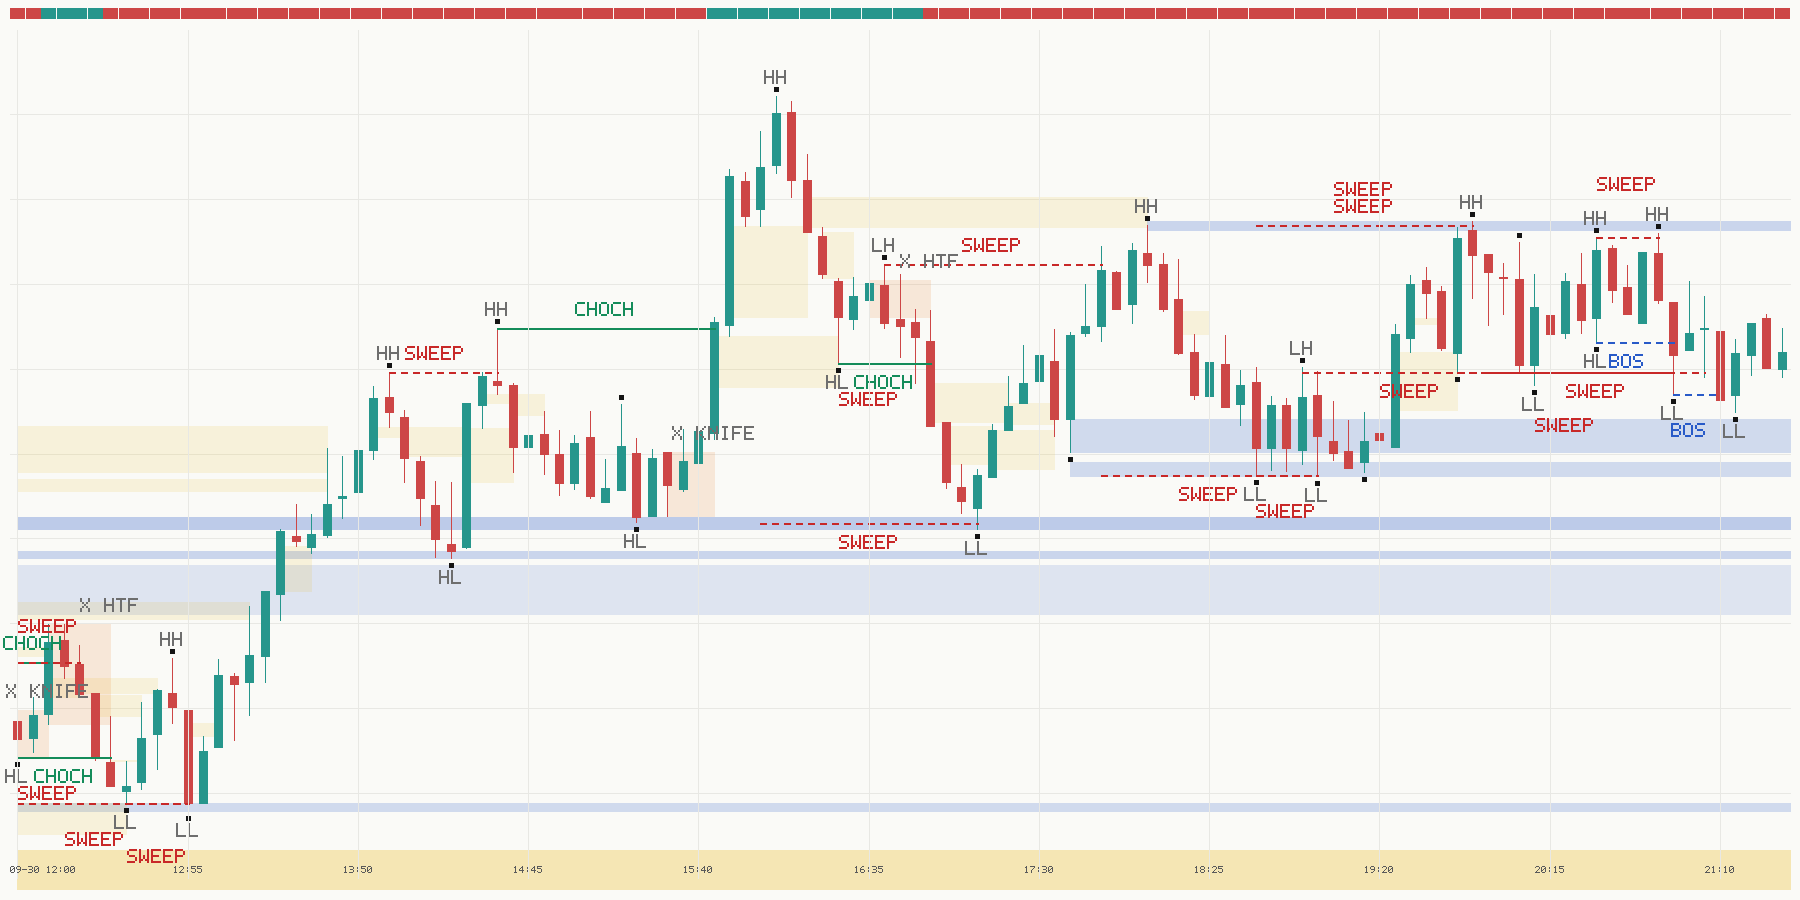
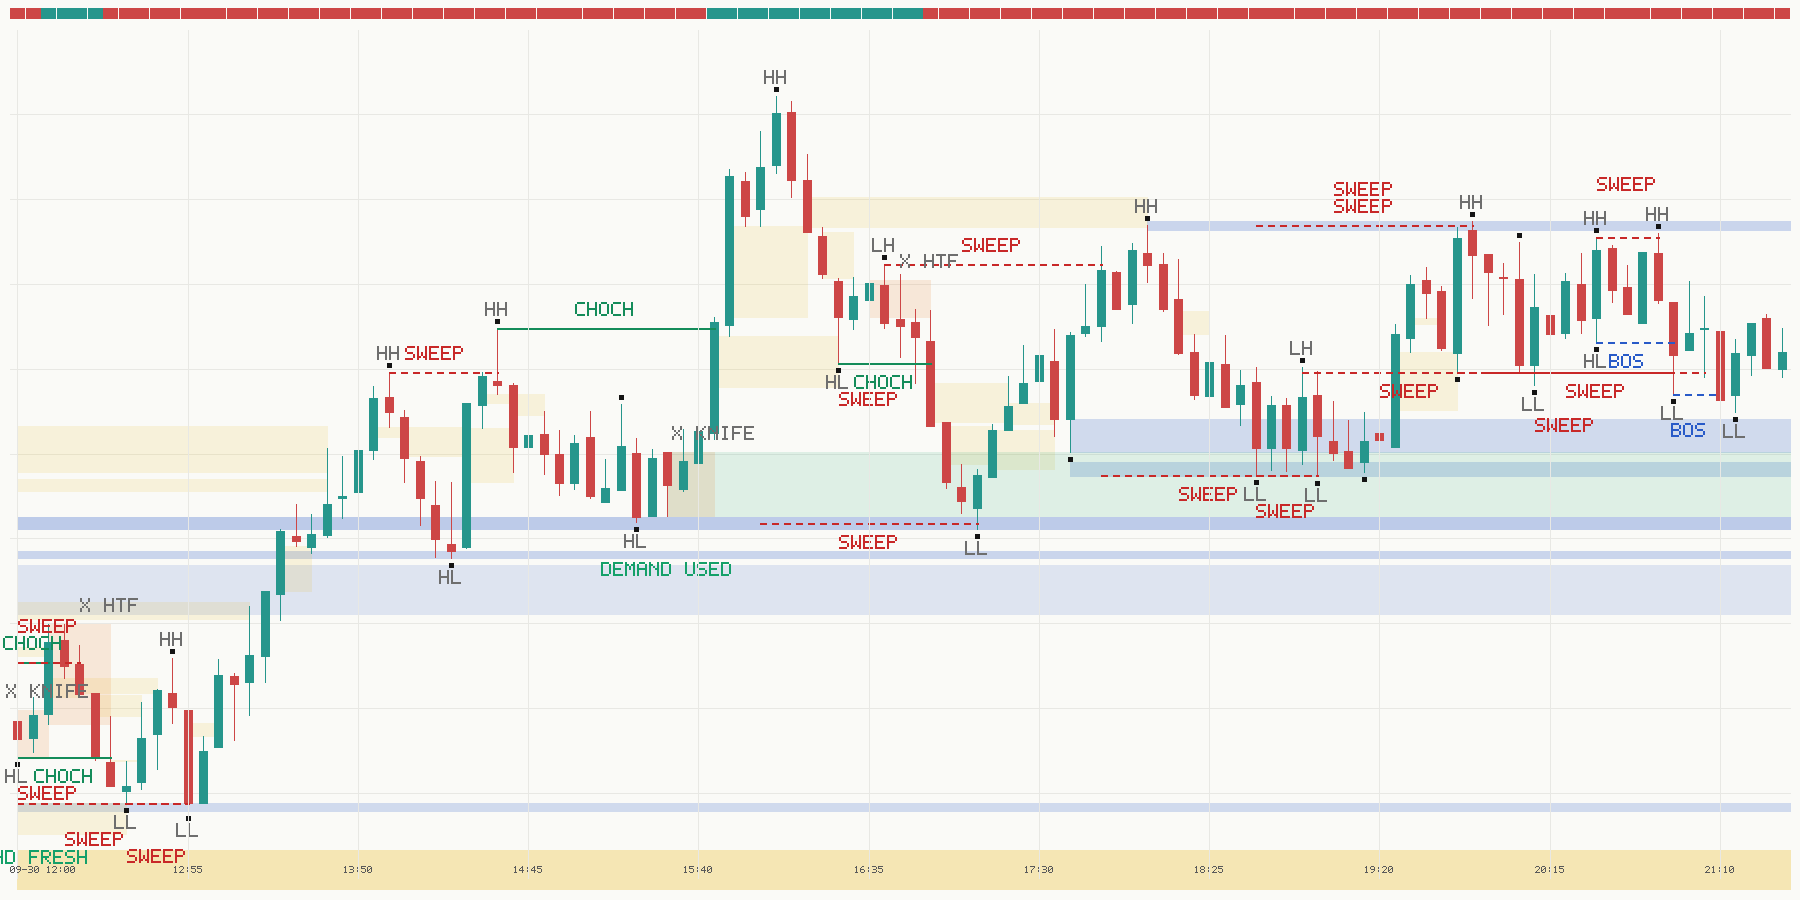
docs: zones versus levels, true and false zones, and the engine's renders regenerated

Changed region(s): [[0.3733, 0.4978, 0.9956, 0.5911], [0.3422, 0.6222, 0.4044, 0.6533], [0.0, 0.9333, 0.0622, 0.9644]]

diff --git a/docs/smc/README.md b/docs/smc/README.md
@@ -91,10 +91,14 @@ in the picture is a verdict:
 | `CHOCH` (green) | a **true** change of character: a close through the level the current control had to hold |
 | `SWEEP` (red) | the wick took the stops and the close came back — **not** a reversal |
 | `GAP FILL` (orange) | price rebalancing an open gap — **not** a reversal |
+| green / rose box `DEMAND`/`SUPPLY` | a **TRUE zone**: the origin of an aggressive move (the last opposite-coloured candle before a run of far-larger-than-usual same-coloured candles, wick to wick) that left a fair value gap and broke structure; `FRESH` until price first comes back, then `USED` (`KNIFE` if it came back violently); deleted (BROKEN) when a bar closes through its far edge |
+| grey `X FALSE ...` | a **FALSE zone**: a run that looked like one but failed a rule of the decks' validation matrix, with the rule it failed — `NOT AGGRESSIVE` (ordinary-sized candles), `NO GAP`, `NO BOS`. Drawn while still standing so it can be argued with |
 | orange box | the order block: the last opposite-coloured candle before the leg, wick to wick |
 | pink / teal boxes | stop zone / target zone of an opportunity the engine would take, `LONG`/`SHORT n.nR`, then `WIN`/`LOSS` (hindsight, never used to decide) or `ARMED` |
 | grey `X ...` | an opportunity it **rejected**: `NO ROOM` (no level leaves 1:2), `HTF` (against the slower clock), `KNIFE` (violent approach), `DEAD` (closed through the zone first) |
 | top strip | who is in control: teal demand, red supply |
+
+**Levels are not zones.** The blue bands are *levels*: stacks of swing points where the market turned (support / resistance, liquidity). A *zone* is different: the origin of an aggressive move, found and judged by the rules above. Earlier versions drew only levels and found an order block only after a change of character; it now scans for zones continuously and classifies each as TRUE, FALSE or BROKEN.
 
 `smc/strategy.py` trades exactly what this reading calls true, so the picture and the trades cannot disagree.
 `--readings` prints the few choices the reading makes that are the project's own (`analyst.READINGS`).

diff --git a/docs/smc/spec.md b/docs/smc/spec.md
@@ -559,6 +559,7 @@ picture (`clicktrader smc-chart`) before trusting any row.
 | concept (§) | frames | what the code does now |
 |---|---|---|
 | Supply/demand zone band (§2.1) | `S01`, `S04`–`S07`, `S25`, `S28` | **Implemented.** A level is a band around the candles that formed it (lowest wick to lowest body bottom for a floor, as `S01` draws it), overlapping bands merged, alive until a bar *closes* through the far edge, then deleted. Drawn faded by how many times the market turned there. |
+| Supply/demand zone as the *origin of a move* (§2.1–2.2, S&D decks) | `S01`, `S30`–`S33`; Ultimate deck pp. 4–7 | **Implemented as a continuous scan** (`Zone`): last opposite-coloured candle before a run of 3+ same-coloured candles far larger than the chart's own, wick to wick; TRUE only with a gap and a break of structure; FRESH until the first tap, USED after, deleted (BROKEN) on a close through. **FALSE zones are classified and drawn** with the rule they failed (not aggressive / no gap / no BOS), per the decks' validation matrix. 3+ candles is the S&D decks' number (the SOP says 4+); the 1.5x size is this project's reading. |
 | Order block (§2.2) | `S30`–`S33`, `S39`, `S43`, `S46`, `S47` | **Implemented** as the single candle before the leg, wick to wick; the last opposite-coloured candle (the three S&D decks say so in words; the frames do not contradict it). |
 | Inefficiency / FVG (§2.3) | `S01`, `S10`, `S20`, `S31`, `S43`, `S46` | **Implemented**, strict no-wick-overlap; open until price trades back into it. |
 | Break of structure (§2.4) | `S01`, `S02`, `S10`, `S14`, `S15`, `S19`, `S26`–`S28` | **Implemented** as a close through the trend's last extreme (continuation), reported as `BOS`. |

diff --git a/docs/evidence/README.md b/docs/evidence/README.md
@@ -54,3 +54,13 @@ screenshot (20:51 peak, fall, lower low at 21:17, bounce). My markup of that vie
   lines are now capped at 14 bars of reach so they no longer span the picture.
 - **Also seen:** gold's daily 21:00-22:00 GMT closure (the feed and the bars stop at ~20:58), and the owner's RSI panel,
   which nothing here uses.
+
+## True zones and false zones (added after the owner asked whether the engine "just marks")
+The blue bands in these pictures are **levels**, stacks of swing points. **Zones** are separate, and are the decks' and
+S01's object: the origin of an aggressive move. In the owner's zoomed-in V100 view (`r100-1m-test-live.png`) the engine
+finds a **SUPPLY FRESH** zone at 636.39-637.51 (the last up candle before the drop from the 20:51 peak; it left a gap,
+broke structure, and price never came back to it) and a **SUPPLY USED KNIFE** zone at 633.48-634.39 (price came back to
+it violently at 21:18). It finds **no demand zone** under the 21:17 low, correctly by the decks' rules: the bounce
+from there did not break structure, so it fails the break-of-structure rule. Over the 999 one-minute bars read there
+are 4 true zones standing, 31 broken and 60 false. `smc-compare` now reports zones as well as levels. The zone
+detector has not yet been compared with the owner's own marks of zones, which is the test that matters.
